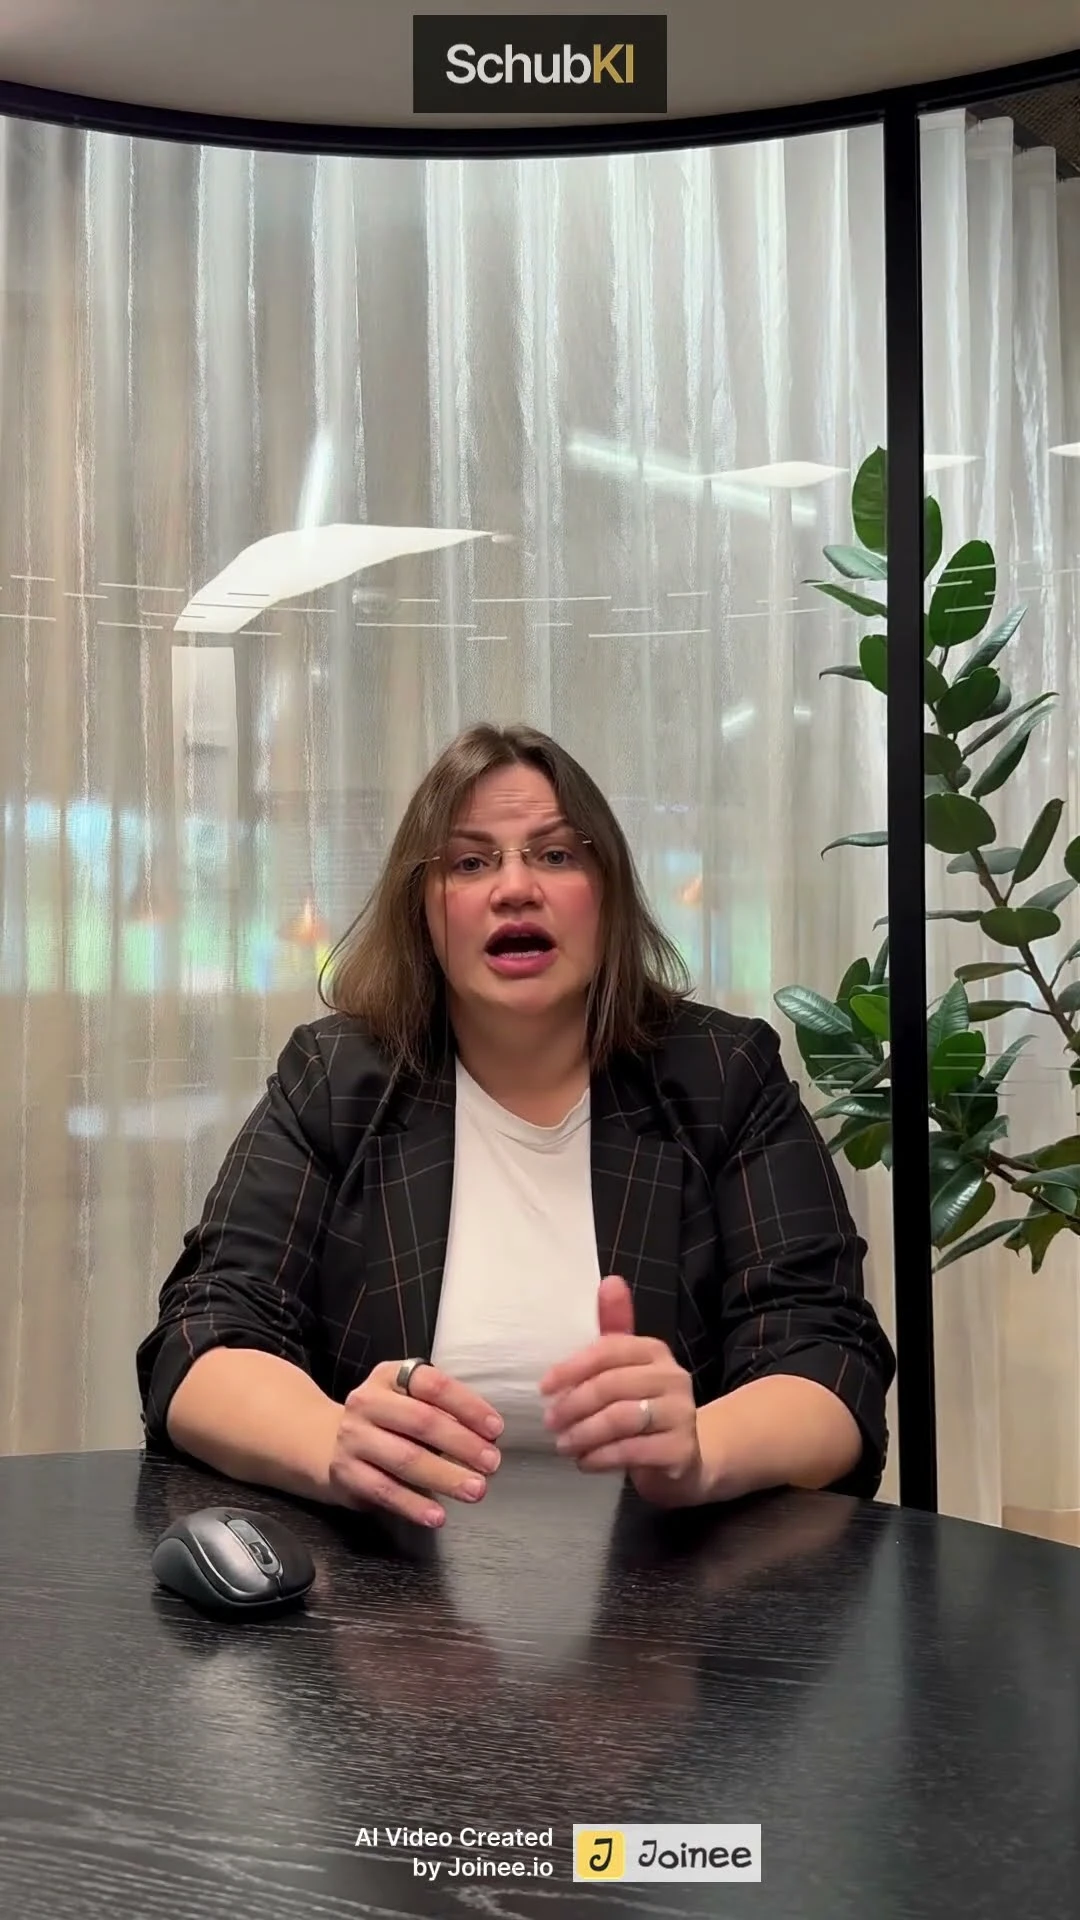
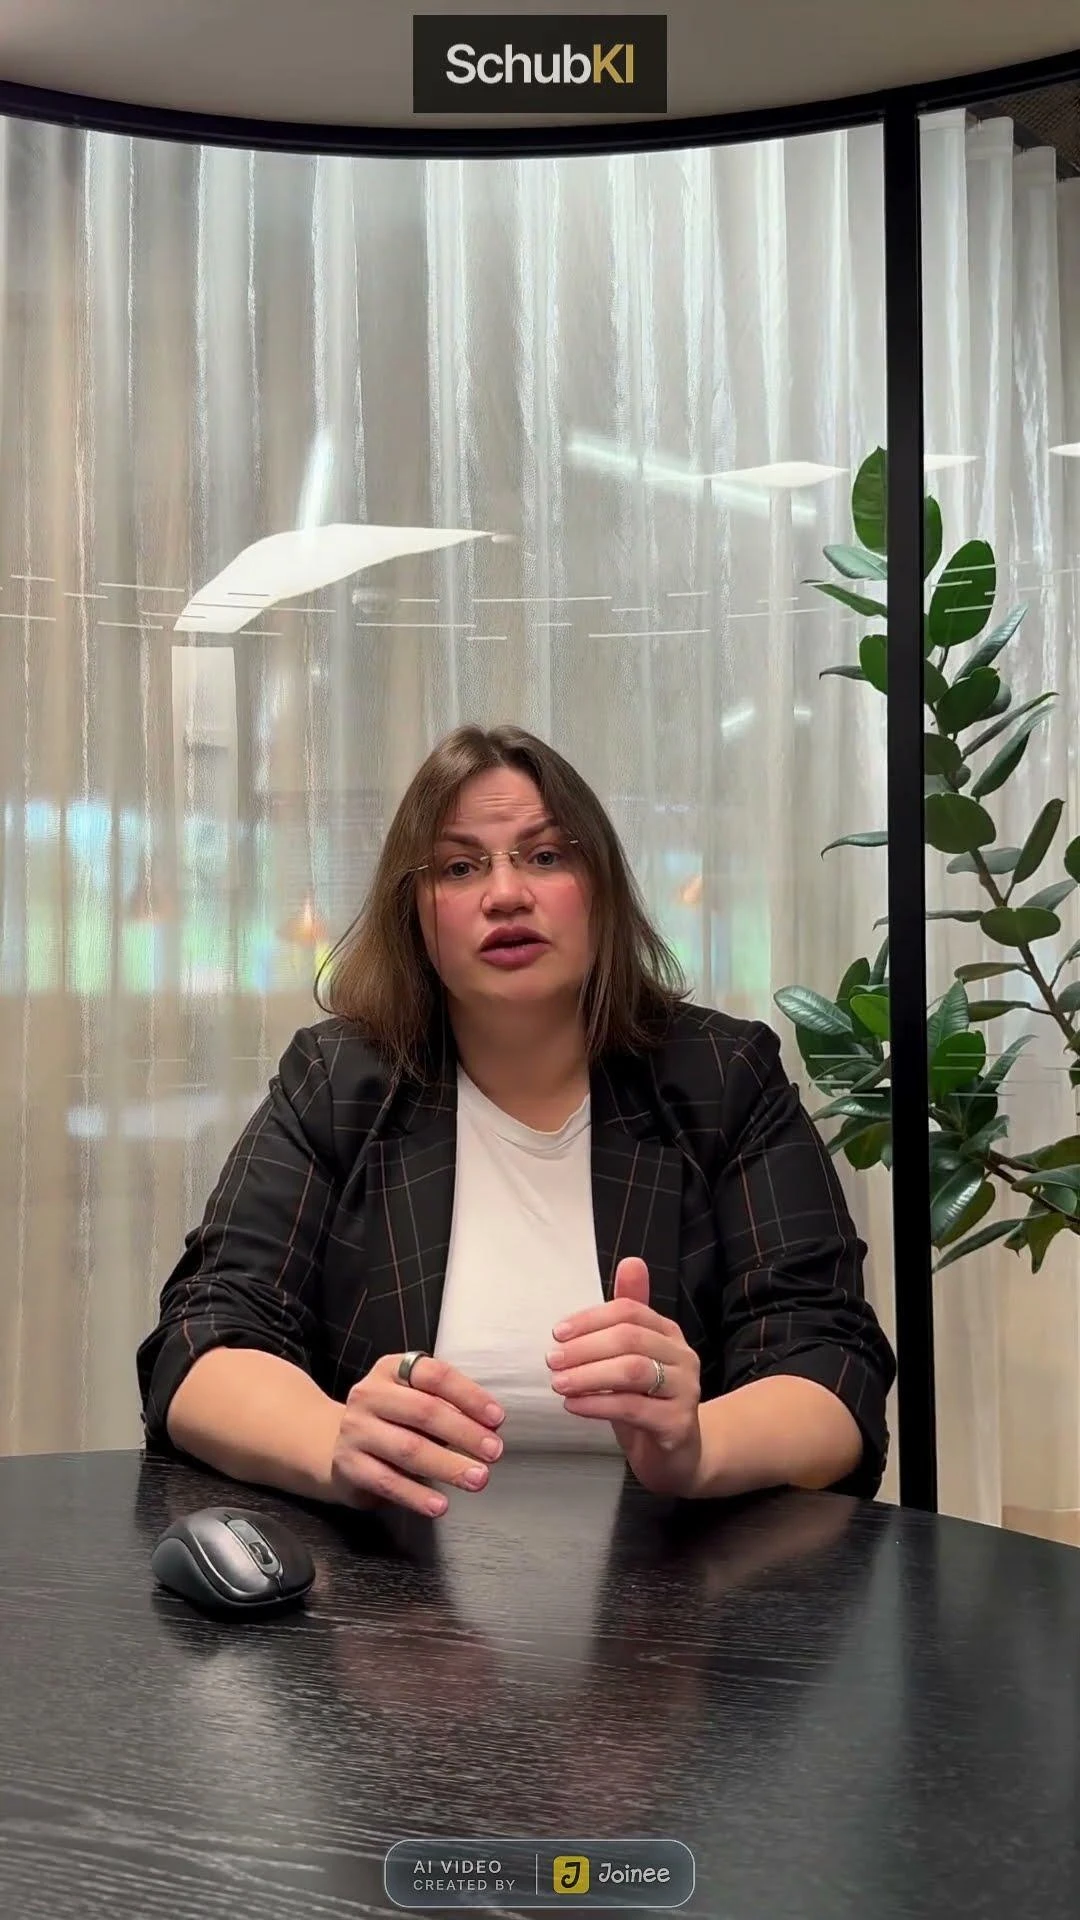
Restore presenter frame for first short, update third and add fourth short, move play button to lower third

diff --git a/components/AiVideoView.tsx b/components/AiVideoView.tsx
@@ -65,10 +65,16 @@ export const AiVideoView: React.FC = () => {
       thumbnail: "/portfolio/short-abandoned-avatars.webp",
     },
     {
-      id: "utJbl0MRfa0",
+      id: "ZIfLdTPtJzg",
       title: "Script 3 - Thank you to partners",
       badge: lang === "ru" ? "Партнерский питч · 9:16" : lang === "sr" ? "Partnerski pitch · 9:16" : "Partner Pitch · 9:16",
       thumbnail: "/portfolio/short-partner-pitch.webp",
+    },
+    {
+      id: "e7CKuwVvGrs",
+      title: "We aren't just funding deep tech - we are raising angel investors",
+      badge: lang === "ru" ? "Deep Tech & Ангелы · 9:16" : lang === "sr" ? "Deep Tech & Investicije · 9:16" : "Deep Tech & Angels · 9:16",
+      thumbnail: "/portfolio/short-deeptech-angels.webp",
     },
   ];
 
@@ -539,7 +545,7 @@ export const AiVideoView: React.FC = () => {
 
           </div>
 
-          <div className="grid sm:grid-cols-2 md:grid-cols-3 gap-6 max-w-4xl mx-auto">
+          <div className="grid grid-cols-2 lg:grid-cols-4 gap-4 sm:gap-6 max-w-5xl mx-auto">
             {sampleShorts.map((item) => (
               <div
                 key={item.id}
@@ -569,12 +575,13 @@ export const AiVideoView: React.FC = () => {
                         {item.badge}
                       </span>
                     </div>
-                    <div className="absolute inset-0 bg-gradient-to-t from-black/80 via-transparent to-transparent flex items-end p-4">
+                    <div className="absolute inset-0 bg-gradient-to-t from-black/85 via-black/20 to-transparent flex items-end p-4">
                       <span className="text-xs font-semibold text-white line-clamp-2">{item.title}</span>
                     </div>
-                    <div className="absolute inset-0 flex items-center justify-center">
-                      <div className="w-14 h-14 rounded-full bg-[#9c386d] text-white flex items-center justify-center shadow-lg group-hover:scale-110 transition-transform">
-                        <Play className="w-6 h-6 fill-white translate-x-0.5" />
+                    {/* Play button positioned in lower third to avoid covering face */}
+                    <div className="absolute bottom-20 inset-x-0 flex items-center justify-center pointer-events-none">
+                      <div className="w-12 h-12 rounded-full bg-[#9c386d]/95 text-white flex items-center justify-center shadow-xl group-hover:scale-110 transition-transform backdrop-blur-xs">
+                        <Play className="w-5 h-5 fill-white translate-x-0.5" />
                       </div>
                     </div>
                   </div>
@@ -584,7 +591,7 @@ export const AiVideoView: React.FC = () => {
           </div>
 
           {/* JOINEE PARTNERSHIP TRUST CARD */}
-          <div className="mt-8 p-4 rounded-2xl bg-gradient-to-r from-slate-50 via-[#fcf8fa] to-slate-50 border border-slate-200/80 flex flex-col sm:flex-row items-center justify-between gap-4 text-xs max-w-4xl mx-auto">
+          <div className="mt-8 p-4 rounded-2xl bg-gradient-to-r from-slate-50 via-[#fcf8fa] to-slate-50 border border-slate-200/80 flex flex-col sm:flex-row items-center justify-between gap-4 text-xs max-w-5xl mx-auto">
             <div className="flex items-center gap-3.5">
               <div className="w-10 h-10 rounded-xl bg-[#2d263b] text-white flex items-center justify-center font-bold tracking-tight text-base shrink-0 shadow-sm">
                 J

diff --git a/components/VideoAvatarSection.tsx b/components/VideoAvatarSection.tsx
@@ -11,7 +11,8 @@ export const VideoAvatarSection: React.FC = () => {
   const shorts = [
     { id: "nMmu9whtzZs", title: "San Francisco Buyer Goes $150K Over Asking and Still Loses", thumbnail: "/portfolio/short-sf-buyer.webp" },
     { id: "XNY-zo4ZoUk", title: "A whole generation of abandoned avatars 👾", thumbnail: "/portfolio/short-abandoned-avatars.webp" },
-    { id: "utJbl0MRfa0", title: "Script 3 - Thank you to partners", thumbnail: "/portfolio/short-partner-pitch.webp" },
+    { id: "ZIfLdTPtJzg", title: "Script 3 - Thank you to partners", thumbnail: "/portfolio/short-partner-pitch.webp" },
+    { id: "e7CKuwVvGrs", title: "We aren't just funding deep tech - we are raising angel investors", thumbnail: "/portfolio/short-deeptech-angels.webp" },
   ];
 
   const youtubeVideos = [
@@ -62,7 +63,7 @@ export const VideoAvatarSection: React.FC = () => {
           </div>
 
           {/* 9:16 Shorts Grid */}
-          <div className="grid sm:grid-cols-2 md:grid-cols-3 gap-6 max-w-4xl mx-auto">
+          <div className="grid grid-cols-2 lg:grid-cols-4 gap-4 sm:gap-6 max-w-5xl mx-auto">
             {shorts.map((item) => (
               <div
                 key={item.id}
@@ -87,12 +88,13 @@ export const VideoAvatarSection: React.FC = () => {
                       alt={item.title}
                       className="w-full h-full object-cover group-hover:scale-105 transition-transform duration-300 opacity-90 group-hover:opacity-100"
                     />
-                    <div className="absolute inset-0 bg-gradient-to-t from-black/80 via-transparent to-transparent flex items-end p-4">
+                    <div className="absolute inset-0 bg-gradient-to-t from-black/85 via-black/20 to-transparent flex items-end p-4">
                       <span className="text-xs font-medium text-white line-clamp-1">{item.title}</span>
                     </div>
-                    <div className="absolute inset-0 flex items-center justify-center">
-                      <div className="w-14 h-14 rounded-full bg-sky-500 text-white flex items-center justify-center shadow-xl group-hover:scale-110 transition-transform">
-                        <Play className="w-6 h-6 fill-white translate-x-0.5" />
+                    {/* Play button positioned in lower third to avoid covering face */}
+                    <div className="absolute bottom-20 inset-x-0 flex items-center justify-center pointer-events-none">
+                      <div className="w-12 h-12 rounded-full bg-sky-500 text-white flex items-center justify-center shadow-xl group-hover:scale-110 transition-transform">
+                        <Play className="w-5 h-5 fill-white translate-x-0.5" />
                       </div>
                     </div>
                   </div>

diff --git a/lib/data.ts b/lib/data.ts
@@ -350,8 +350,22 @@ export const portfolioItems: PortfolioItem[] = [
       en: "Short partner gratitude and investor pitch featuring an on-screen AI presenter.",
       sr: "Kratko obraćanje partnerima i investitorima uz pomoć AI prezentera.",
     },
-    youtubeId: "utJbl0MRfa0",
+    youtubeId: "ZIfLdTPtJzg",
     image: "/portfolio/short-partner-pitch.webp",
+    isShort: true,
+  },
+  {
+    id: "avatar-4",
+    title: "Deep Tech & Angel Investors Pitch",
+    category: "video",
+    tags: ["AI Technology", "Shorts 9:16", "Venture"],
+    description: {
+      ru: "Динамичный вертикальный ролик для венчурного фонда и сообщества бизнес-ангелов.",
+      en: "Dynamic vertical video engineered for deep tech venture syndicates and angel investors.",
+      sr: "Dinamičan vertikalni video za investitore i poslovne anđele u oblasti tehnologije.",
+    },
+    youtubeId: "e7CKuwVvGrs",
+    image: "/portfolio/short-deeptech-angels.webp",
     isShort: true,
   },
   {
